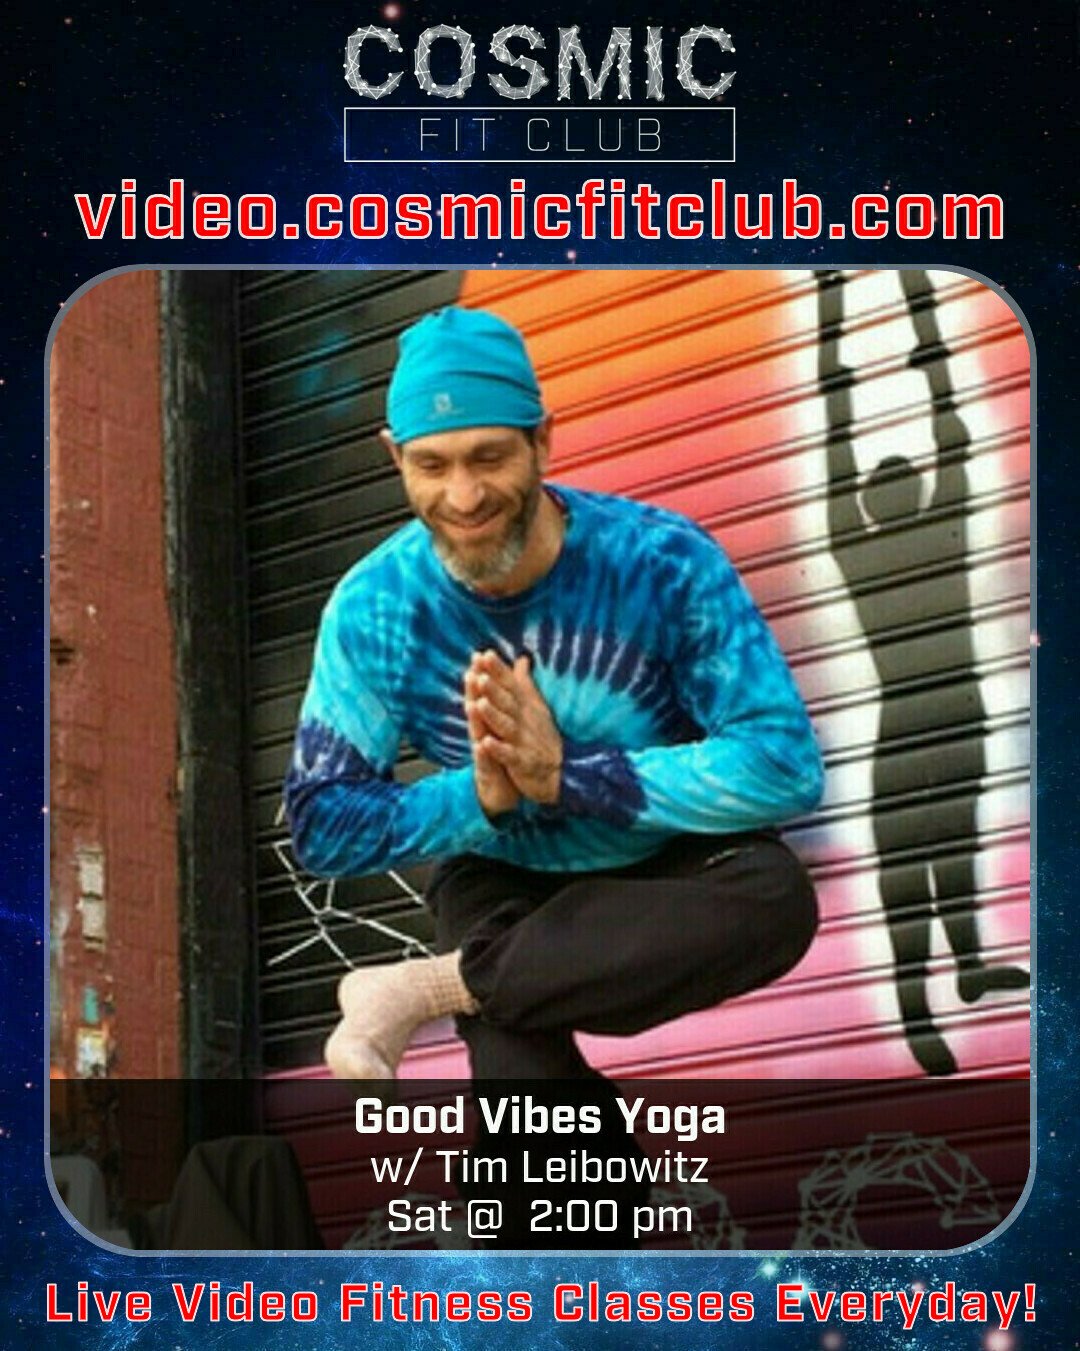
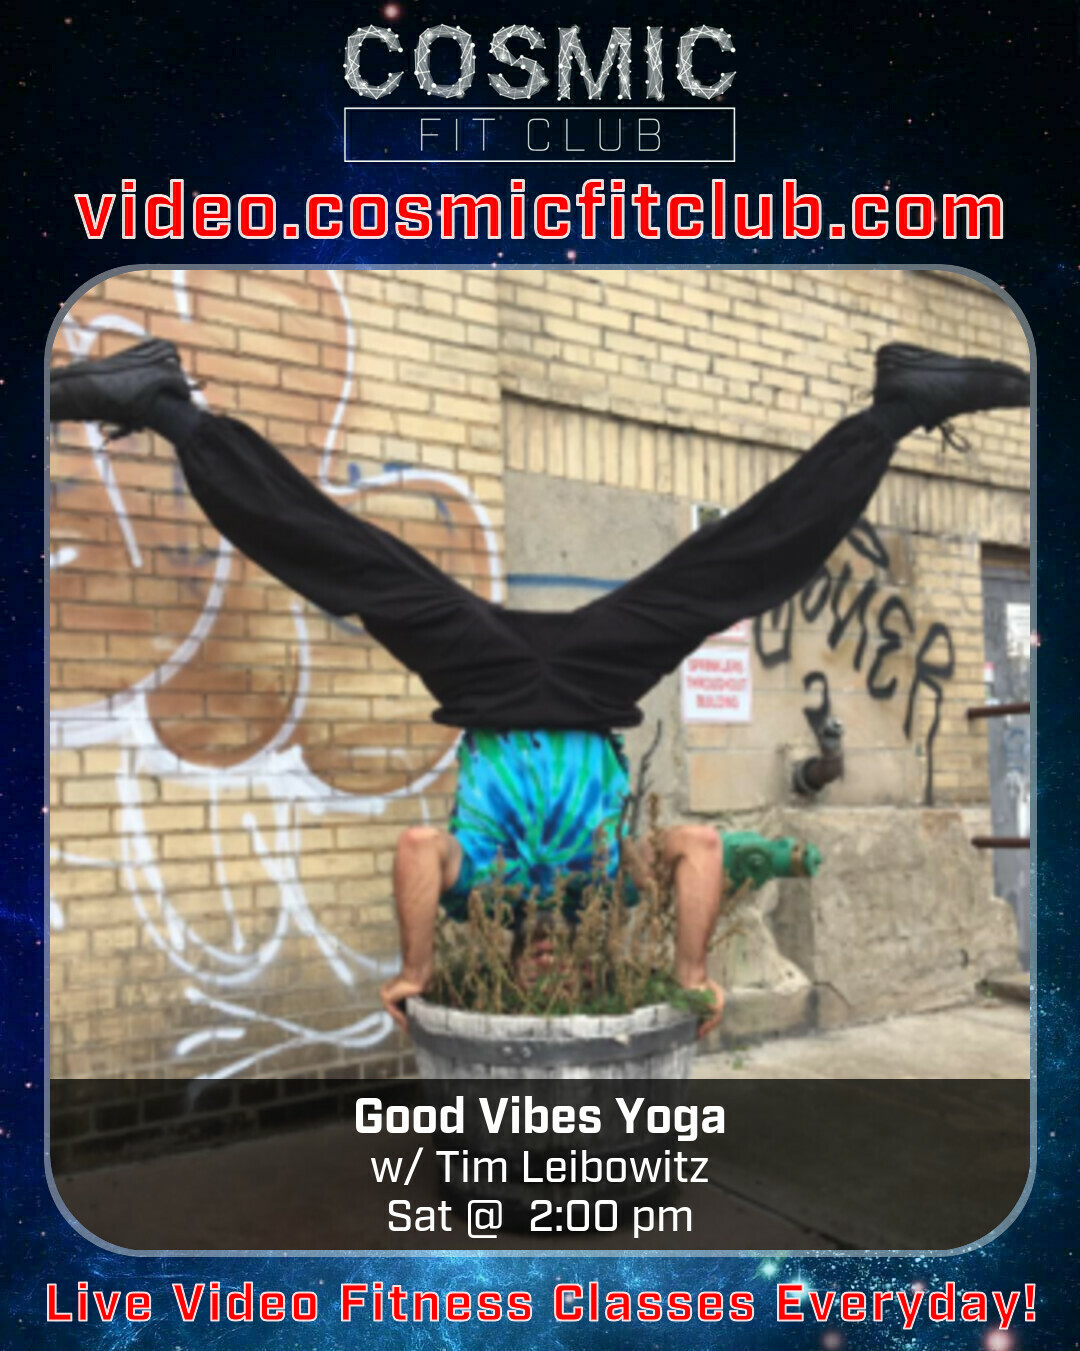
model updates

diff --git a/printable/dailyPromo.rb b/printable/dailyPromo.rb
@@ -1,0 +1,44 @@
+module DailyPromo
+  def DailyPromo::generate_all()
+    
+    grouped = ClassdefSchedule.all.group_by { |x| { :class=> x.classdef.name, :teacher=>x.teachers.map(&:name).join(', ') } }
+    list = grouped.map { |k,v| { :teacher => k[:teacher], :img => v[0].image_url, :lines => [k[:class], "w/ " + k[:teacher], v.map(&:simple_meeting_time_description).join(", ")] } } 
+    list.each{ |x| SchedulePromo::generate4x5(x).save("vidpromos/schedules/#{x[:lines][0]} - #{x[:teacher]}.jpg") }
+  end
+
+  def DailyPromo::generate4x5(x)
+    image = MiniMagick::Image.open("printable/assets/4x5_bg.jpg")
+    image.draw_elements([
+      { :type     => 'logo',
+        :x_offset => 340,
+        :y_offset => 20,
+        :width    => 400
+      },
+      { :type     => "highlight_text",
+        :x_offset => 0,
+        :y_offset => 175,
+        :ptsize   => 18.5,
+        :gravity  => "North",
+        :text     => "video.cosmicfitclub.com"
+      },
+      { :type     => 'image_bubble',
+        :x_offset => 50,
+        :y_offset => 270,
+        :width    => 980,
+        :height   => 980,
+        :margin   => 6,
+        :ptscale  => 0.05,
+        :ptscale2 => 0.9,
+        :img      => x[:img],
+        :lines    => x[:lines]
+      },
+      { :type     => "highlight_text",
+        :x_offset => 0,
+        :y_offset => 20,
+        :ptsize   => 12.5,
+        :gravity  => "South",
+        :text     => "Live Video Fitness Classes Everyday!"
+      }
+    ])
+  end
+end

diff --git a/models/Classes/ClassOccurrence.rb b/models/Classes/ClassOccurrence.rb
@@ -117,8 +117,20 @@ class ClassOccurrence < Sequel::Model
 
   ############################# Views ################################
 
+  def to_token 
+    { :id => self.id,
+      :starttime => self.starttime,
+      :classdef => self.classdef.to_token,
+      :teacher => self.teacher.to_token
+    }
+  end
+
   def to_full_json
-    to_json( :include => { :reservations => {}, :classdef =>  { :only => [ :id, :name ] }, :teacher =>  { :only => [ :id, :name ] } } )
+    self.to_hash.merge({
+      :classdef => self.classdef.to_token,
+      :teacher => self.teacher.to_token,
+      :reservations => self.reservations.map(&to_hash)
+    })
   end
 
   def to_ical_event

diff --git a/models/Classes/ClassReservation.rb b/models/Classes/ClassReservation.rb
@@ -46,4 +46,14 @@ class ClassReservation < Sequel::Model
     self.occurrence.starttime <=> other.occurrence.starttime
   end
 
+  def details_hash
+    { :id => self.id,
+      :occurrence => self.occurrence.to_token,
+      :customer => self.customer.to_token,
+      :payment => self.payment.to_token,
+      :transaction => self.transaction.to_token,
+      :membership_use => self.membership_use.to_token
+    }
+  end
+
 end

diff --git a/models/Passes/PassTransaction.rb b/models/Passes/PassTransaction.rb
@@ -19,4 +19,12 @@ class PassTransaction < Sequel::Model
     arr[0]
   end
 
+  def to_token
+    { :id => self.id,
+      :delta => self.delta,
+      :timestamp => self.timestamp,
+      :description => self.description
+    }
+  end
+
 end

diff --git a/models/Memberships/MembershipUse.rb b/models/Memberships/MembershipUse.rb
@@ -12,4 +12,11 @@ class MembershipUse < Sequel::Model
     self.subscription.plan.id == 10
   end
 
+  def to_token
+    { :id => self.id,
+      :timestamp => self.datetime,
+      :reason => self.reason
+    }
+  end
+
 end
